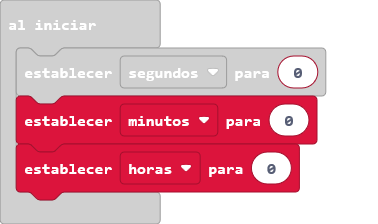
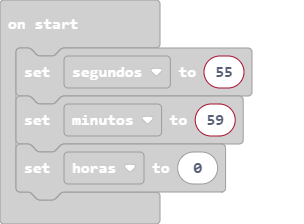
Update main.blocks, main.ts

diff --git a/main.ts b/main.ts
@@ -1,5 +1,5 @@
-let segundos = 0
-let minutos = 0
+let segundos = 55
+let minutos = 59
 let horas = 0
 basic.forever(function () {
     segundos += 1
